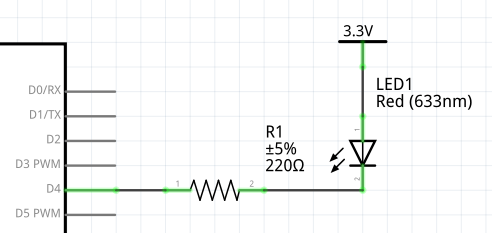
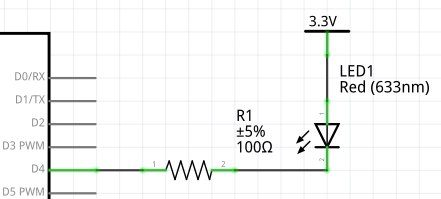
correct exo 1, part 2

Changed region(s): [[0.0, 0.0603, 0.9728, 1.0]]

diff --git a/architecture_materielle/readme.md b/architecture_materielle/readme.md
@@ -22,7 +22,8 @@ Pour calculer la valeur de la resistance, voici la procedure.
 **R = 100 ohm**
 ### ----
 
-Le shema doit etre modifie etant donne qu une tension d'alimentation doit etre utilisee:
+Le shema doit etre modifie etant donne qu une tension d'alimentation doit etre utilisee.
+Aussi, il faut que l'intensité dans le GPIO soit negative pour ne pas limiter l'intensite dans la LED par le GPIO.
 
 ![exo1_2.png](exo1_2.png)
 
@@ -30,11 +31,10 @@ Le shema doit etre modifie etant donne qu une tension d'alimentation doit etre u
 * Soit U_max = Vcc - Ud4_min - Uled_min
 * On a donc U_max = 3.3 - 0 - 2.3 = 1V
 * Or U = R * I
-* Sachant que l'on cherche a maximiser I (I_max = 6mA) sans ne jamais exceder cette valeur, on va utiliser U_max et I_max pour calculer R
-* D'ou R = U_max / I_max = 1 / 0.06 = 166 ohm
-* Prenons R = 220 ohm pour utiliser une valeur standard
+* Sachant que l'on cherche a maximiser I sans ne jamais exceder I_max (= max(|-15|, 10) = 10mA), on va utiliser U_max et I_max pour calculer R
+* D'ou R = U_max / I_max = 1 / 0.01 = 100 ohm
 
-**R = 220 ohm**
+**R = 100 ohm**
 ### ----
 
 Si le courant maximum du GPIO est de 4mA mais que la LED supporte jusqu'a 500mA, il est preferable d'utiliser des parties puissance et commande.
